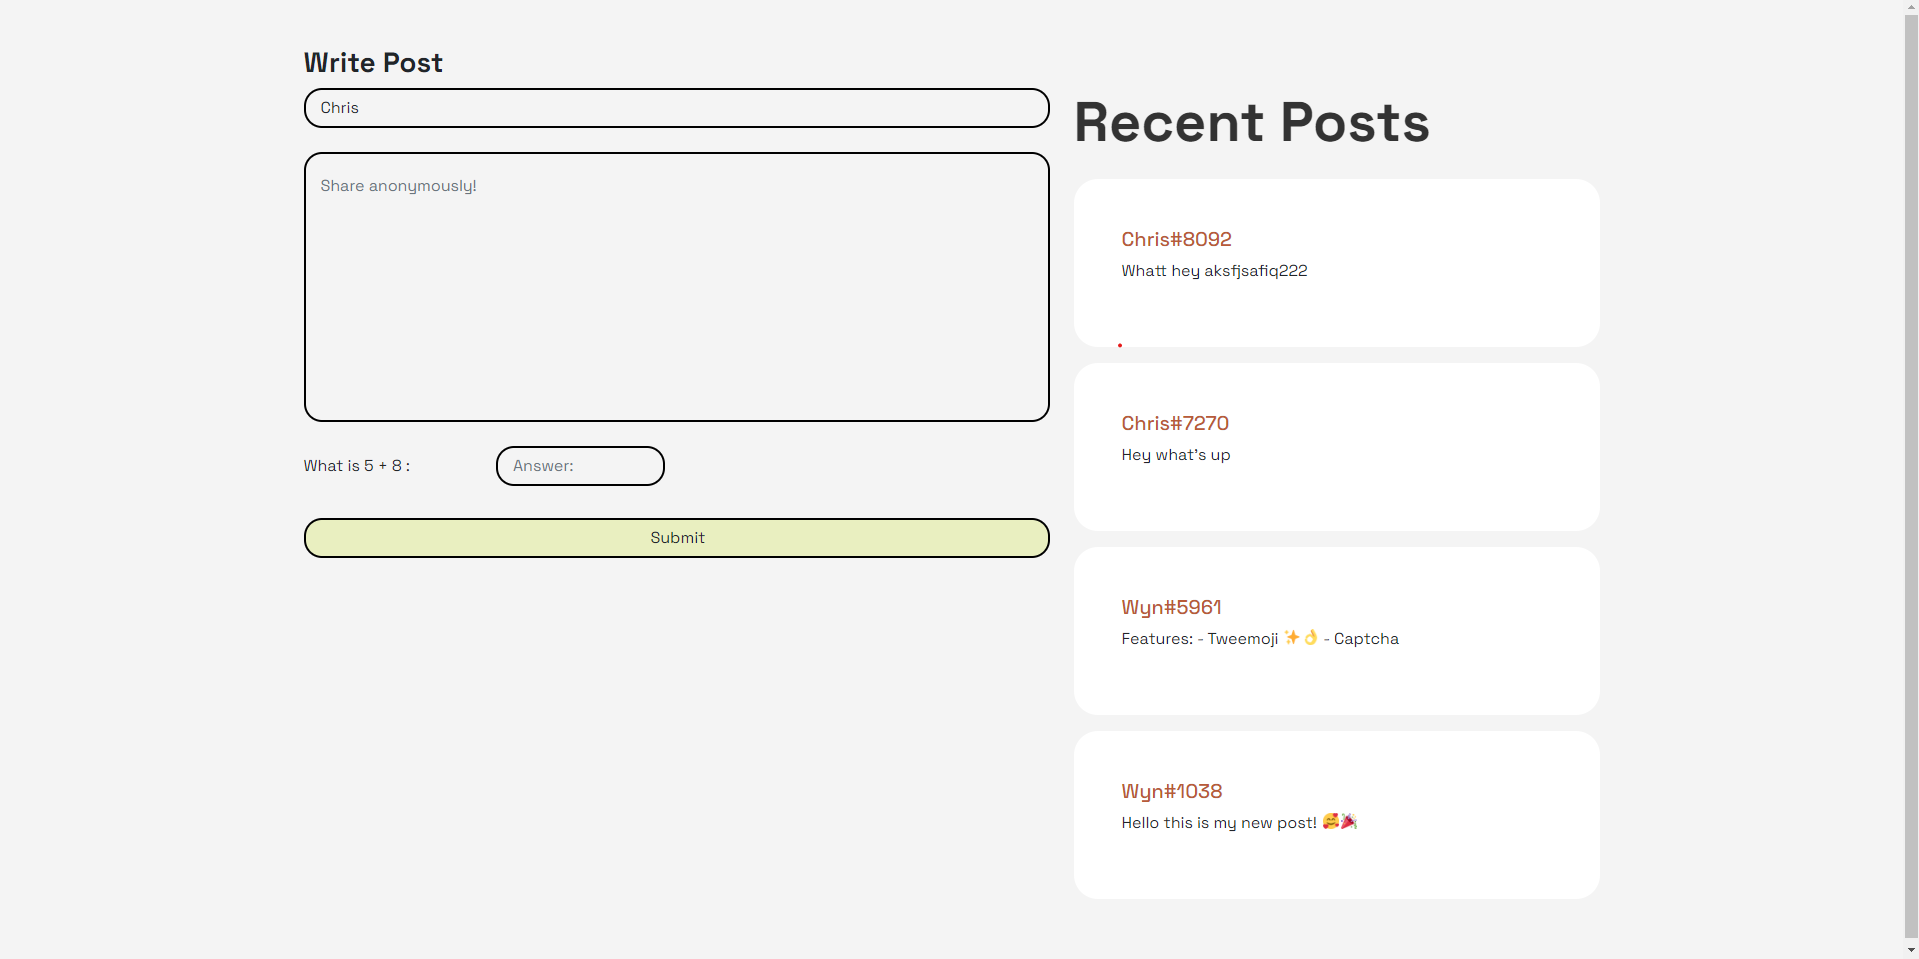
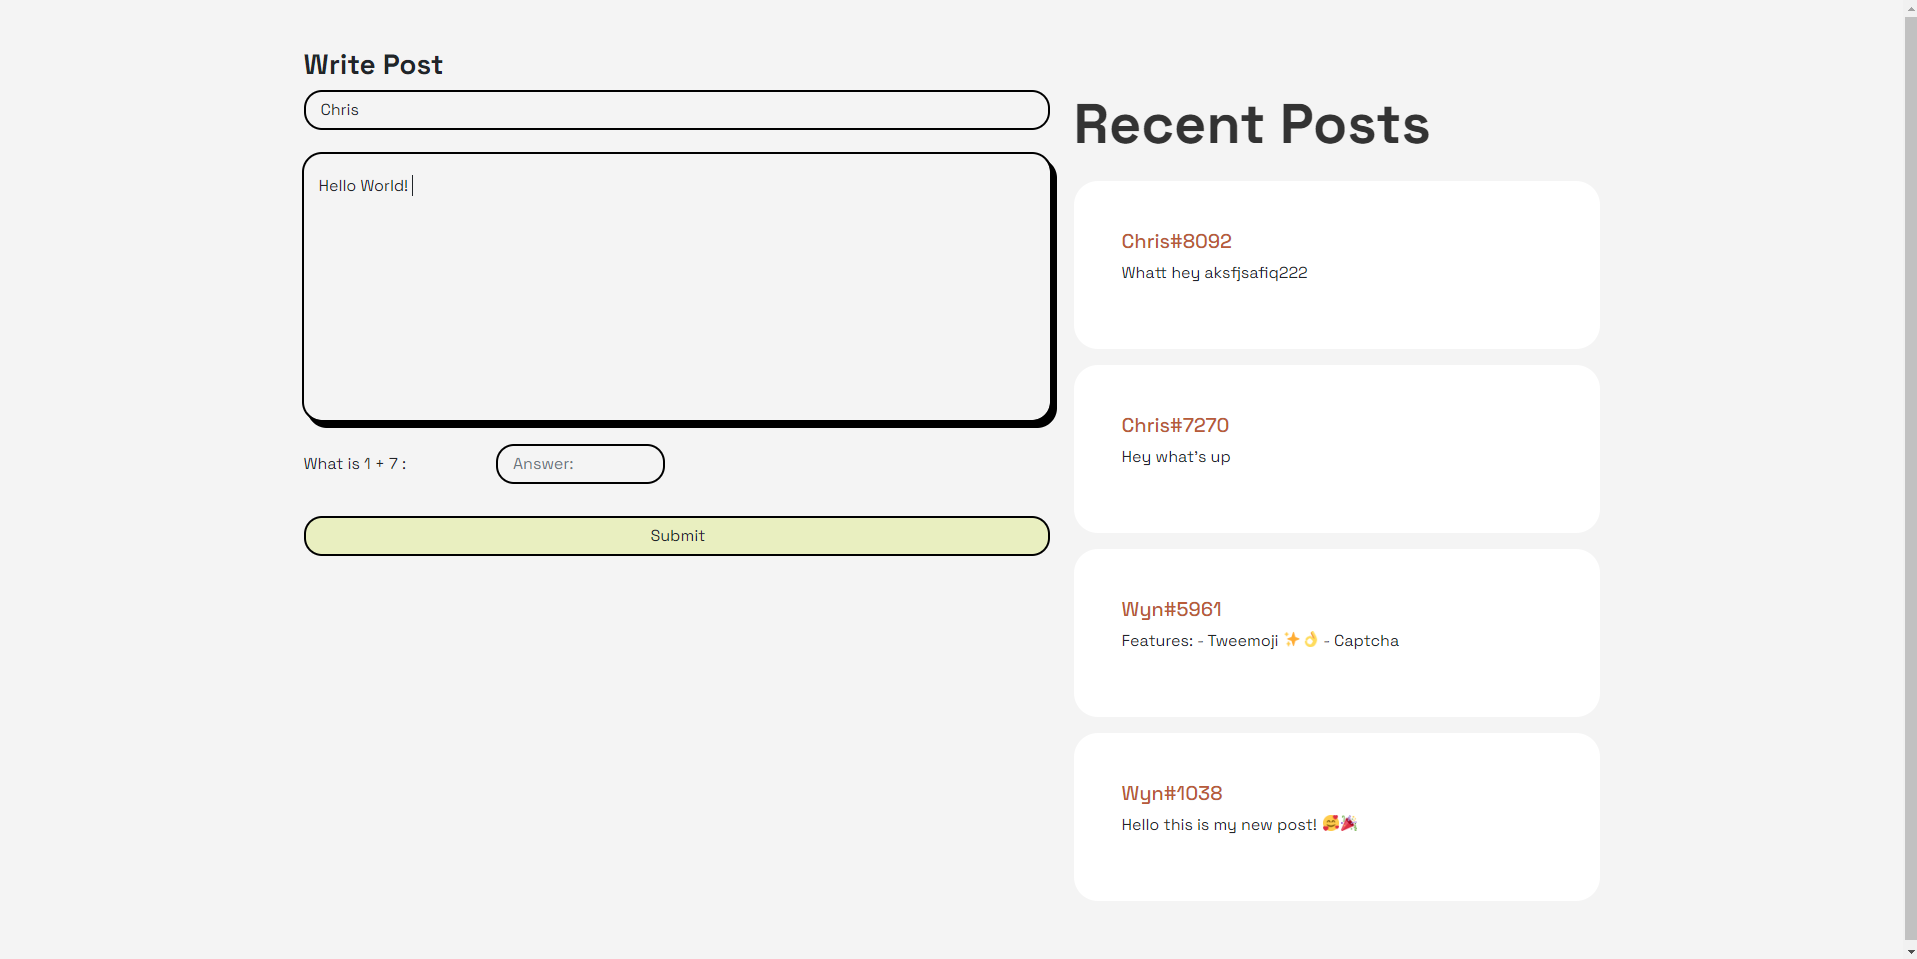
Fix shadow

diff --git a/index.php b/index.php
@@ -1,4 +1,4 @@
- <?php
+<?php
 
 require_once('app/core/init.php');
 if(isset($_POST['submit'])) {
@@ -83,7 +83,7 @@ input[type=number]:focus,
     outline: none !important;
     border: none;
     border-radius: 18px;
-    box-shadow: 2px 3px 0 2px rgb(0 0 0), 0 0 0 2px rgb(0 0 0) !important;
+    box-shadow: 5px 6px 0 2px rgb(0 0 0), 0 0 0 2px rgb(0 0 0) !important;
 }
 img.emoji {
    height: 1em;
